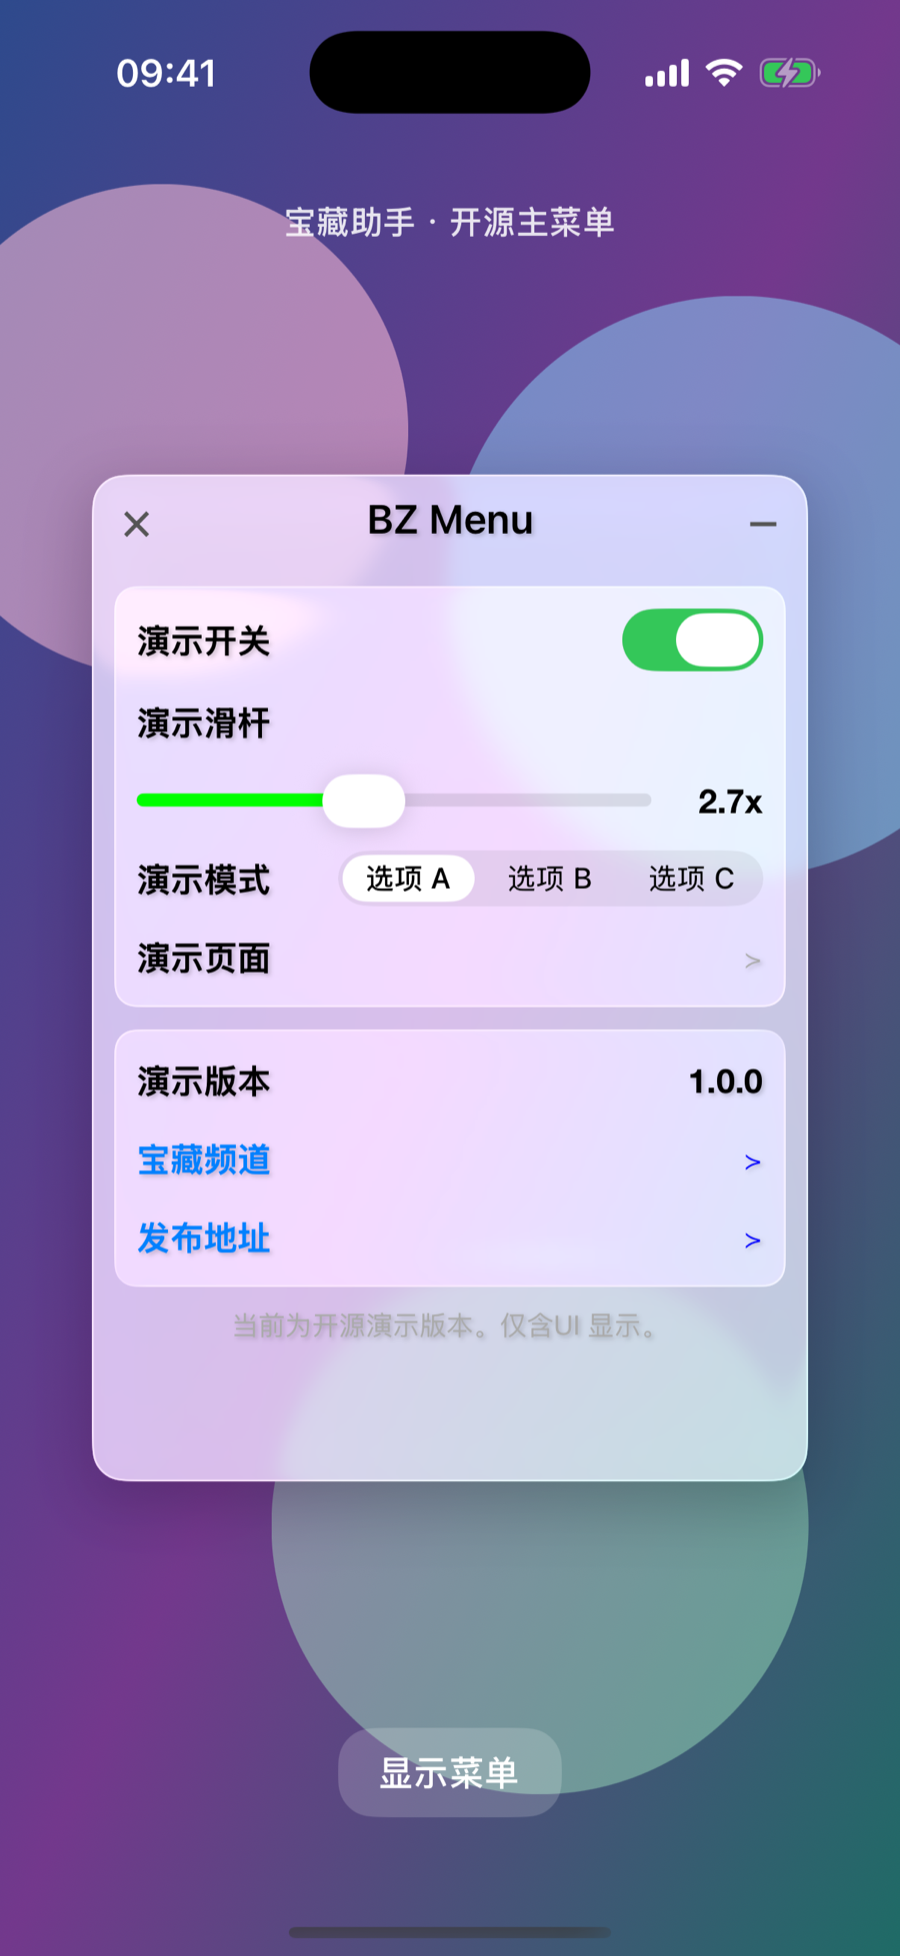
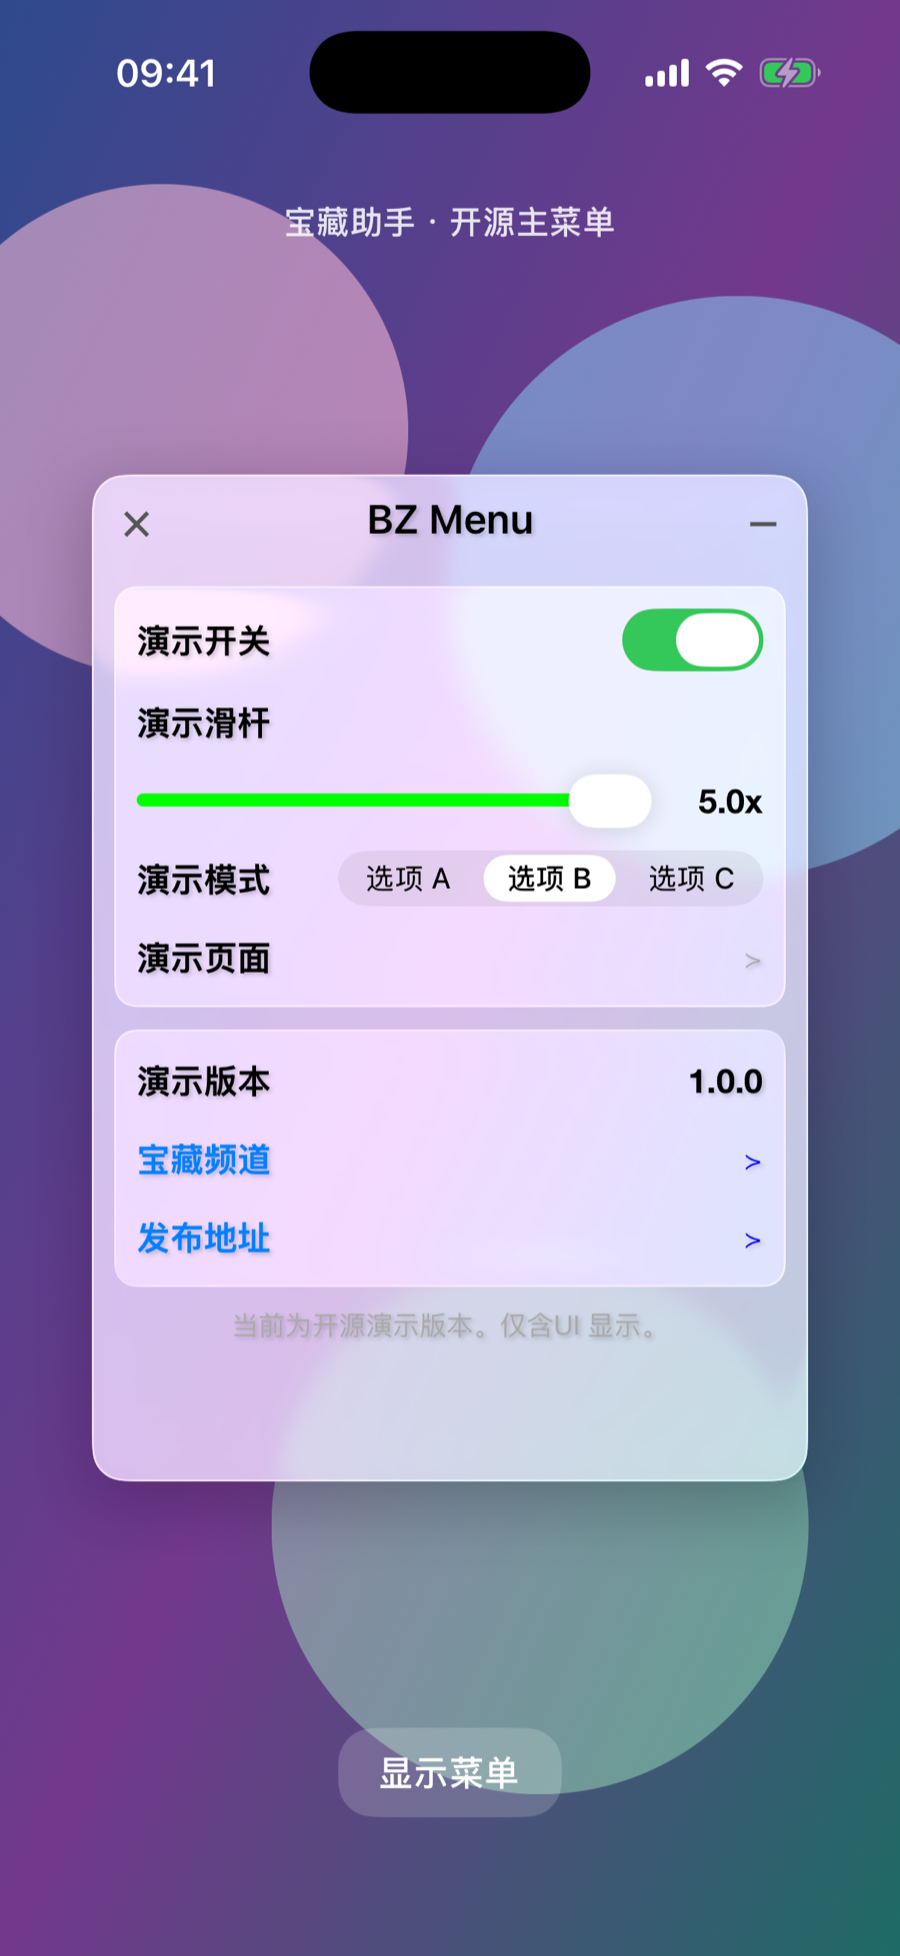
Rename the solid theme to 常规主题 and fix the preview screenshots.

Changed region(s): [[0.3422, 0.3742, 0.7156, 0.4678], [0.3111, 0.9668, 0.6533, 0.998], [0.7778, 0.4054, 0.84, 0.4366]]

diff --git a/Demo/DemoViewController.m b/Demo/DemoViewController.m
@@ -101,8 +101,14 @@
     if (self.panel.superview) {
         return;
     }
+    BZMenuConfiguration *config = [BZHelperMenuCatalog configuration];
+    const char *forcedTheme = getenv("BZ_MENU_THEME");
+    if (forcedTheme) {
+        config.themePersistenceKey = nil;
+        config.theme = atoi(forcedTheme);
+    }
     self.panel = [BZMenuPanel presentInView:self.view
-                              configuration:[BZHelperMenuCatalog configuration]
+                              configuration:config
                                    delegate:self];
 }
 

diff --git a/Sources/BZMenuKit/BZMenuThemeDefault.m b/Sources/BZMenuKit/BZMenuThemeDefault.m
@@ -10,7 +10,7 @@
 }
 
 - (NSString *)displayName {
-    return @"默认主题";
+    return @"常规主题";
 }
 
 - (void)applyToPanel:(UIView *)panel {

diff --git a/README.md b/README.md
@@ -2,20 +2,20 @@
 
 宝藏助手开源版，先放出双套主题主菜单 UI（`BZMenuKit`）。
 
-视觉对齐现网主菜单壳：320×450、默认 / 液态玻璃、标题栏、拖拽、功能区 + 信息区。iOS 26+ 的液态玻璃走系统 `UIGlassEffect`，更低版本回落到毛玻璃渐变。Demo 只放演示控件。
+视觉对齐现网主菜单壳：320×450、常规 / 液态玻璃、标题栏、拖拽、功能区 + 信息区。iOS 26+ 的液态玻璃走系统 `UIGlassEffect`，更低版本回落到毛玻璃渐变。Demo 只放演示控件。
 
 This repository publishes the overlay menu UI. The chrome matches the shipping panel; the demo only shows sample rows.
 
 ## 预览
 
-| 液态玻璃 | 默认主题 |
+| 液态玻璃 | 常规主题 |
 | --- | --- |
-| <img src="docs/screenshots/menu-glass.png" alt="液态玻璃主题" width="280"> | <img src="docs/screenshots/menu-default.png" alt="默认主题" width="280"> |
+| <img src="docs/screenshots/menu-glass.png" alt="液态玻璃主题" width="280"> | <img src="docs/screenshots/menu-default.png" alt="常规主题" width="280"> |
 
 用 Xcode 打开 [`BZMenuKit.xcodeproj`](BZMenuKit.xcodeproj)，跑 `BZMenuKitDemo`。
 
 - 启动后自动弹出菜单
-- 长按「演示版本」在默认主题和液态玻璃之间切换
+- 长按「演示版本」在常规主题和液态玻璃之间切换
 - 右上角 `−` 收起，左上角 `×` 弹出确认（Demo 不会杀进程）
 - 双指双击收起
 
